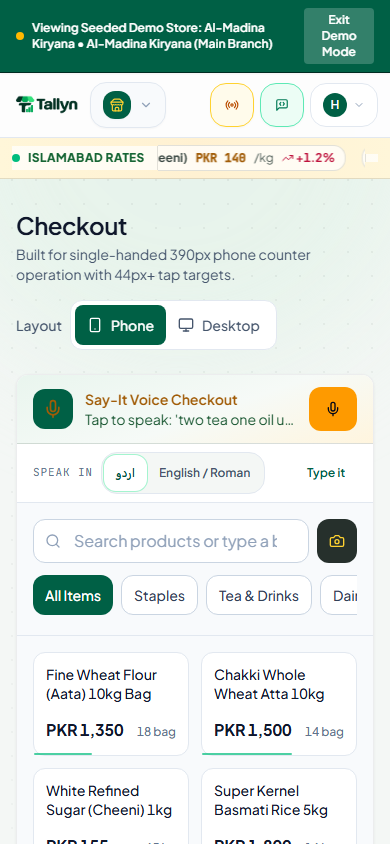
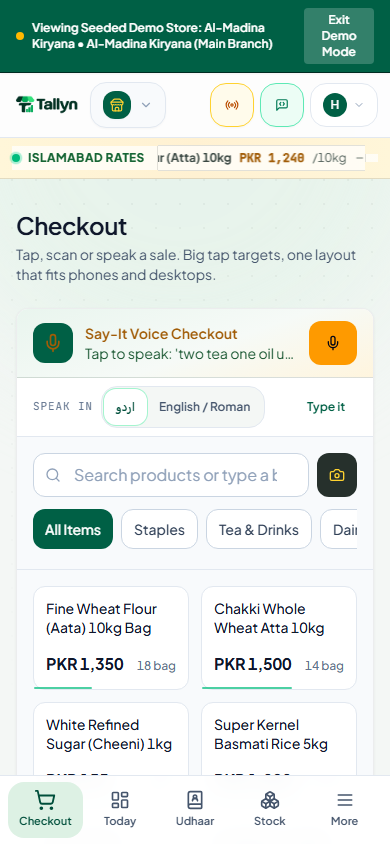
Upd: Homepage, Checkout

diff --git a/src/app/App.tsx b/src/app/App.tsx
@@ -18,23 +18,69 @@ import { StoreManagementModal } from "@/features/stores/StoreManagementModal";
 import { WholesaleMandiTicker } from "@/features/dashboard/WholesaleMandiTicker";
 
 
-const LandingView = lazy(() => import("@/features/landing/LandingView").then((m) => ({ default: m.LandingView })));
-const CheckoutView = lazy(() => import("@/features/checkout/CheckoutView").then((m) => ({ default: m.CheckoutView })));
-const DashboardView = lazy(() => import("@/features/dashboard/DashboardView").then((m) => ({ default: m.DashboardView })));
-const InventoryView = lazy(() => import("@/features/inventory/InventoryView").then((m) => ({ default: m.InventoryView })));
-const UdhaarView = lazy(() => import("@/features/udhaar/UdhaarView").then((m) => ({ default: m.UdhaarView })));
-const PurchasesView = lazy(() => import("@/features/purchases/PurchasesView").then((m) => ({ default: m.PurchasesView })));
-const InsightsView = lazy(() => import("@/features/insights/InsightsView").then((m) => ({ default: m.InsightsView })));
-const SalesHistoryView = lazy(() => import("@/features/history/SalesHistoryView").then((m) => ({ default: m.SalesHistoryView })));
-const SettingsView = lazy(() => import("@/features/settings/SettingsView").then((m) => ({ default: m.SettingsView })));
-const LoginPage = lazy(() => import("@/features/auth/LoginPage").then((m) => ({ default: m.LoginPage })));
-const RegisterPage = lazy(() => import("@/features/auth/RegisterPage").then((m) => ({ default: m.RegisterPage })));
-const DocsView = lazy(() => import("@/features/docs/DocsView").then((m) => ({ default: m.DocsView })));
-const StoreOnboardingPage = lazy(() => import("@/features/stores/StoreOnboardingPage").then((m) => ({ default: m.StoreOnboardingPage })));
+// The homepage ships in the main bundle: no second download (and no spinner) on first visit.
+import { LandingView } from "@/features/landing/LandingView";
 
+// Every other screen is its own chunk. The loaders are kept so they can be prefetched while idle.
+const loaders = {
+  checkout: () => import("@/features/checkout/CheckoutView").then((m) => ({ default: m.CheckoutView })),
+  dashboard: () => import("@/features/dashboard/DashboardView").then((m) => ({ default: m.DashboardView })),
+  inventory: () => import("@/features/inventory/InventoryView").then((m) => ({ default: m.InventoryView })),
+  udhaar: () => import("@/features/udhaar/UdhaarView").then((m) => ({ default: m.UdhaarView })),
+  purchases: () => import("@/features/purchases/PurchasesView").then((m) => ({ default: m.PurchasesView })),
+  insights: () => import("@/features/insights/InsightsView").then((m) => ({ default: m.InsightsView })),
+  history: () => import("@/features/history/SalesHistoryView").then((m) => ({ default: m.SalesHistoryView })),
+  settings: () => import("@/features/settings/SettingsView").then((m) => ({ default: m.SettingsView })),
+  login: () => import("@/features/auth/LoginPage").then((m) => ({ default: m.LoginPage })),
+  register: () => import("@/features/auth/RegisterPage").then((m) => ({ default: m.RegisterPage })),
+  docs: () => import("@/features/docs/DocsView").then((m) => ({ default: m.DocsView })),
+  onboarding: () => import("@/features/stores/StoreOnboardingPage").then((m) => ({ default: m.StoreOnboardingPage })),
+};
+const CheckoutView = lazy(loaders.checkout);
+const DashboardView = lazy(loaders.dashboard);
+const InventoryView = lazy(loaders.inventory);
+const UdhaarView = lazy(loaders.udhaar);
+const PurchasesView = lazy(loaders.purchases);
+const InsightsView = lazy(loaders.insights);
+const SalesHistoryView = lazy(loaders.history);
+const SettingsView = lazy(loaders.settings);
+const LoginPage = lazy(loaders.login);
+const RegisterPage = lazy(loaders.register);
+const DocsView = lazy(loaders.docs);
+const StoreOnboardingPage = lazy(loaders.onboarding);
+
+/**
+ * Warm every screen's chunk once the browser is idle, most-visited first, so moving
+ * between pages is instant. Skipped on data-saver connections. Fire-and-forget: a
+ * failed prefetch just means that page loads on demand as before.
+ */
+function usePrefetchScreens() {
+  useEffect(() => {
+    const conn = (navigator as Navigator & { connection?: { saveData?: boolean } }).connection;
+    if (conn?.saveData) return;
+    const queue = [
+      loaders.dashboard, loaders.checkout, loaders.docs, loaders.insights, loaders.udhaar,
+      loaders.purchases, loaders.inventory, loaders.history, loaders.settings,
+      loaders.login, loaders.register, loaders.onboarding,
+    ];
+    const idle: (cb: () => void) => number =
+      (window as Window & { requestIdleCallback?: (cb: () => void) => number }).requestIdleCallback ??
+      ((cb) => window.setTimeout(cb, 300));
+    let cancelled = false;
+    const next = () => {
+      const load = queue.shift();
+      if (!load || cancelled) return;
+      load().catch(() => undefined).finally(() => { if (!cancelled) idle(next); });
+    };
+    const start = window.setTimeout(() => idle(next), 1200); // after the first screen has settled
+    return () => { cancelled = true; window.clearTimeout(start); };
+  }, []);
+}
+
+/** Shown only if a screen takes longer than 250ms to arrive, so fast loads never flash a spinner. */
 function PageLoading() {
   return (
-    <div className="flex min-h-[50vh] items-center justify-center" role="status" aria-live="polite">
+    <div className="tn-delayed-show flex min-h-[50vh] items-center justify-center" role="status" aria-live="polite">
       <span className="h-8 w-8 animate-spin rounded-full border-2 border-emerald-800 border-t-transparent" />
       <span className="sr-only">Loading…</span>
     </div>
@@ -75,6 +121,7 @@ const AUTH_TABS: ReadonlySet<ActiveTab> = new Set<ActiveTab>(["login", "register
 const BLEED_TABS: ReadonlySet<ActiveTab> = new Set<ActiveTab>(["landing", "login", "register", "onboarding", "notfound"]);
 
 function AppContent() {
+  usePrefetchScreens();
   const { pathname } = useLocation();
   const tab = tabFromPath(pathname);
   const isAuthPage = AUTH_TABS.has(tab);

diff --git a/src/components/animations/AnimatedSection.tsx b/src/components/animations/AnimatedSection.tsx
@@ -1,51 +1,88 @@
-import React from 'react';
-import { useOnScreen } from '@/lib/animations';
+import React, { useLayoutEffect, useRef, useState } from 'react';
 
 interface AnimatedSectionProps {
   children: React.ReactNode;
+  /** Small extra delay in ms; capped so scrolling never waits on empty space. */
   delay?: number;
   direction?: 'up' | 'down' | 'left' | 'right';
   duration?: number;
   className?: string;
+  /** Kept for API compatibility; reveal now starts before the section enters the viewport. */
   threshold?: number;
 }
 
+/** Start revealing a full screen-height early, so even a fast flick never lands on blank space. */
+const REVEAL_AHEAD = '0px 0px 100% 0px';
+const MAX_DELAY_MS = 120;
+const OFFSET_PX = 16;
+
+const prefersReducedMotion = () =>
+  typeof window !== 'undefined' && window.matchMedia?.('(prefers-reduced-motion: reduce)').matches;
+
 /**
- * Scroll-triggered section animation wrapper.
- * Reveals children with a directional slide + fade when scrolled into view.
- * Honors prefers-reduced-motion via the global CSS override in index.css.
+ * Scroll reveal that never leaves the reader looking at blank space:
+ *  - sections already on screen at first paint render immediately (no fade);
+ *  - sections below start revealing a full screen-height before they scroll into view;
+ *  - short, subtle motion (16px, 450ms) with delays capped at 120ms;
+ *  - fully visible without IntersectionObserver or with prefers-reduced-motion.
  */
 export const AnimatedSection: React.FC<AnimatedSectionProps> = ({
   children,
   delay = 0,
   direction = 'up',
-  duration = 600,
+  duration = 450,
   className,
-  threshold = 0.1
 }) => {
-  const [ref, isVisible] = useOnScreen<HTMLDivElement>({ threshold });
+  const ref = useRef<HTMLDivElement>(null);
+  // 'static' = render visible with no transition (above the fold / reduced motion / no IO).
+  const [state, setState] = useState<'pending' | 'hidden' | 'shown' | 'static'>('pending');
 
-  const getOffset = () => {
-    const offset = 40;
-    switch (direction) {
-      case 'up': return `translateY(${offset}px)`;
-      case 'down': return `translateY(-${offset}px)`;
-      case 'left': return `translateX(${offset}px)`;
-      case 'right': return `translateX(-${offset}px)`;
+  useLayoutEffect(() => {
+    const el = ref.current;
+    if (!el || prefersReducedMotion() || typeof IntersectionObserver === 'undefined') {
+      setState('static');
+      return;
     }
-  };
+    // Measured before paint: anything already within (or just below) the viewport is shown as-is.
+    if (el.getBoundingClientRect().top < window.innerHeight * 1.5) {
+      setState('static');
+      return;
+    }
+    setState('hidden');
+    const io = new IntersectionObserver(
+      ([entry]) => {
+        if (entry.isIntersecting) {
+          setState('shown');
+          io.disconnect();
+        }
+      },
+      { rootMargin: REVEAL_AHEAD, threshold: 0 },
+    );
+    io.observe(el);
+    return () => io.disconnect();
+  }, []);
+
+  const offset = {
+    up: `translateY(${OFFSET_PX}px)`,
+    down: `translateY(-${OFFSET_PX}px)`,
+    left: `translateX(${OFFSET_PX}px)`,
+    right: `translateX(-${OFFSET_PX}px)`,
+  }[direction];
+
+  const hidden = state === 'hidden';
+  const style: React.CSSProperties =
+    state === 'static' || state === 'pending'
+      ? {}
+      : {
+          opacity: hidden ? 0 : 1,
+          transform: hidden ? offset : 'none',
+          transition: `opacity ${duration}ms var(--ease-out), transform ${duration}ms var(--ease-out)`,
+          transitionDelay: `${Math.min(delay, MAX_DELAY_MS)}ms`,
+          willChange: hidden ? 'opacity, transform' : undefined,
+        };
 
   return (
-    <div
-      ref={ref}
-      className={className}
-      style={{
-        opacity: isVisible ? 1 : 0,
-        transform: isVisible ? 'none' : getOffset(),
-        transition: `opacity ${duration}ms var(--ease-out) ${delay}ms, transform ${duration}ms var(--ease-out) ${delay}ms`,
-        willChange: 'opacity, transform'
-      }}
-    >
+    <div ref={ref} className={className} style={style}>
       {children}
     </div>
   );

diff --git a/src/features/checkout/CheckoutView.tsx b/src/features/checkout/CheckoutView.tsx
@@ -18,8 +18,6 @@ import {
   Minus, 
   Sparkles, 
   Search, 
-  Smartphone, 
-  Monitor, 
   Check,
   Volume2,
   Camera,
@@ -50,7 +48,6 @@ export const CheckoutView: React.FC = () => {
   const [selectedCustomerId, setSelectedCustomerId] = useState<string>("");
   const [dueDate, setDueDate] = useState<string>(() => defaultDueDate());
   const [isRecording, setIsRecording] = useState(false);
-  const [is390pxMobileFrame, setIs390pxMobileFrame] = useState<boolean>(true);
   const [voiceNotice, setVoiceNotice] = useState<string | null>(null);
   const [isSpeakingVoice, setIsSpeakingVoice] = useState(false);
   const [isNewCustomerModalOpen, setIsNewCustomerModalOpen] = useState(false);
@@ -350,41 +347,6 @@ export const CheckoutView: React.FC = () => {
           </p>
         </div>
 
-        {/* Viewport Frame Mode Toggle (390px Mobile vs Full Desktop) */}
-        <div className="flex items-center gap-2 self-start sm:self-auto">
-          <span className="text-sm font-medium text-slate-600">Layout</span>
-          <div
-            role="group"
-            aria-label="Layout mode"
-            className="inline-flex rounded-lg border border-slate-200 bg-white p-1"
-          >
-            <button
-              onClick={() => setIs390pxMobileFrame(true)}
-              aria-pressed={is390pxMobileFrame}
-              className={`flex items-center gap-2 rounded-md px-3 text-sm font-medium min-h-[40px] transition-colors ${
-                is390pxMobileFrame
-                  ? "bg-emerald-800 text-white"
-                  : "text-slate-600 hover:bg-slate-100 hover:text-slate-900"
-              }`}
-            >
-              <Smartphone className="h-4 w-4" aria-hidden="true" />
-              <span className="hidden sm:inline">390px Counter Phone</span>
-              <span className="sm:hidden">Phone</span>
-            </button>
-            <button
-              onClick={() => setIs390pxMobileFrame(false)}
-              aria-pressed={!is390pxMobileFrame}
-              className={`flex items-center gap-2 rounded-md px-3 text-sm font-medium min-h-[40px] transition-colors ${
-                !is390pxMobileFrame
-                  ? "bg-emerald-800 text-white"
-                  : "text-slate-600 hover:bg-slate-100 hover:text-slate-900"
-              }`}
-            >
-              <Monitor className="h-4 w-4" aria-hidden="true" />
-              <span>Desktop</span>
-            </button>
-          </div>
-        </div>
       </div>
 
       {/* 10-Second Undo Toast Banner */}
@@ -418,11 +380,11 @@ export const CheckoutView: React.FC = () => {
       )}
 
       {/* Main Checkout Container */}
-      <div className={is390pxMobileFrame ? "mx-auto max-w-[420px]" : "w-full"}>
-        <div className={`surface-l1 overflow-hidden flex flex-col ${!is390pxMobileFrame ? "lg:flex-row" : ""}`}>
+      <div className="w-full">
+        <div className="surface-l1 overflow-hidden flex flex-col lg:flex-row">
 
           {/* Products Panel */}
-          <div className={`flex-1 flex flex-col ${!is390pxMobileFrame ? "border-b lg:border-b-0 lg:border-e border-slate-200" : ""}`}>
+          <div className="flex-1 flex flex-col border-b lg:border-b-0 lg:border-e border-slate-200">
             {/* Say-It Voice Checkout Banner with Speech Synthesis */}
             <div className="soft-panel bg-emerald-900 px-4 py-3 text-white flex items-center justify-between gap-3 border-b border-emerald-800">
               <div className="flex items-center gap-3 min-w-0">
@@ -613,7 +575,7 @@ export const CheckoutView: React.FC = () => {
           </div>
 
           {/* Cart & Checkout Panel */}
-          <div className={`${!is390pxMobileFrame ? "lg:w-[380px]" : "w-full"} ${!is390pxMobileFrame ? "border-t lg:border-t-0 border-slate-200" : ""} bg-white p-4 flex flex-col justify-between`}>
+          <div className="lg:w-[380px] border-t lg:border-t-0 border-slate-200 bg-white p-4 flex flex-col justify-between">
             <div>
               {/* Cart Header */}
               <div className="flex items-center justify-between text-sm font-medium text-slate-700 mb-3 pb-3 border-b border-slate-200">

diff --git a/src/i18n.ts b/src/i18n.ts
@@ -42,7 +42,7 @@ export const resources = {
       },
       pos: {
         title: "Checkout",
-        subtitle: "Built for single-handed 390px phone counter operation with 44px+ tap targets.",
+        subtitle: "Tap, scan or speak a sale. Big tap targets, one layout that fits phones and desktops.",
         searchPlaceholder: "Search products or type a barcode…",
         voicePOS: "Say-It Voice Checkout",
         voicePOSPrompt: "Tap to speak: 'two tea one oil udhaar Asif'",
@@ -54,7 +54,7 @@ export const resources = {
         undoSale: "Undo Sale",
         cartTotal: "Total Due",
         inCart: "items in cart",
-        emptyCart: "Cart is empty. Tap items to add.",
+        emptyCart: "Tap a product, scan a barcode or speak an order.",
         stock: "Stock",
         price: "Price",
       },
@@ -126,7 +126,7 @@ export const resources = {
       },
       ai: {
         title: "Tallyn AI",
-        subtitle: "Read-only store intelligence assistant in English.",
+        subtitle: "Ask about your shop in English, Roman Urdu or Urdu.",
         placeholder: "Ask anything (e.g. 'Who owes the most debt?', 'Which item is running low?')...",
         send: "Ask",
       },

diff --git a/src/index.css b/src/index.css
@@ -1002,3 +1002,7 @@ button, a, [role="button"] { touch-action: manipulation; }
   /* No progress animation means no auto-advance: the reader steps through by hand. */
   .tn-progress { animation: none; transform: scaleX(1); opacity: 0.35; }
 }
+
+/* Loading indicators that only appear if waiting is actually noticeable */
+@keyframes tn-delayed-show { from { opacity: 0; } to { opacity: 1; } }
+.tn-delayed-show { animation: tn-delayed-show 200ms ease-out 250ms both; }
